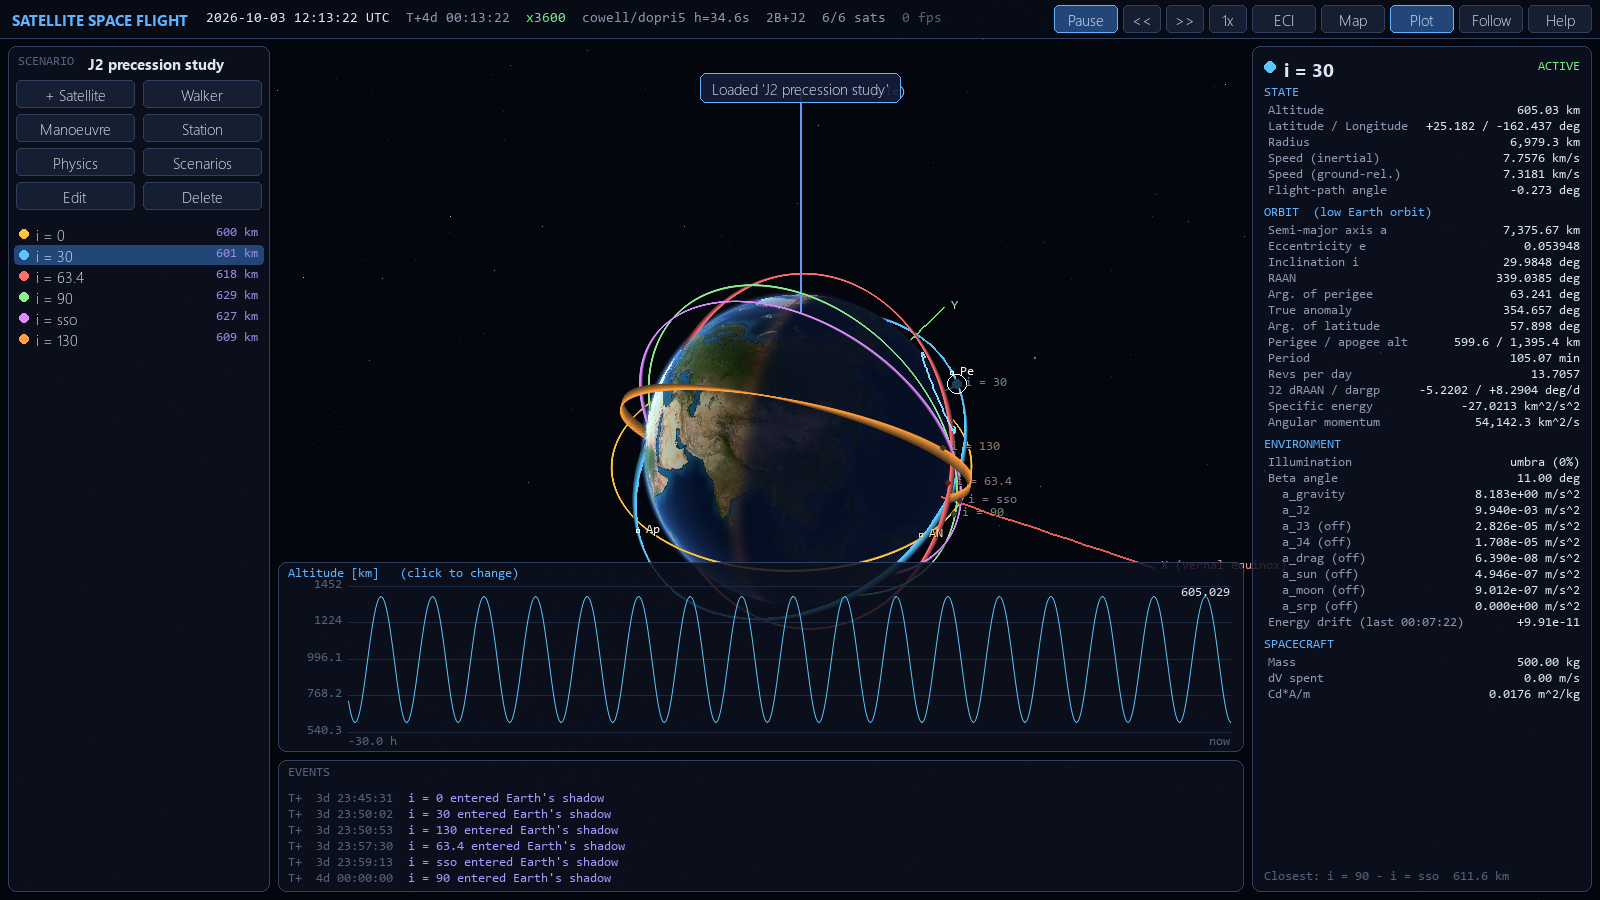
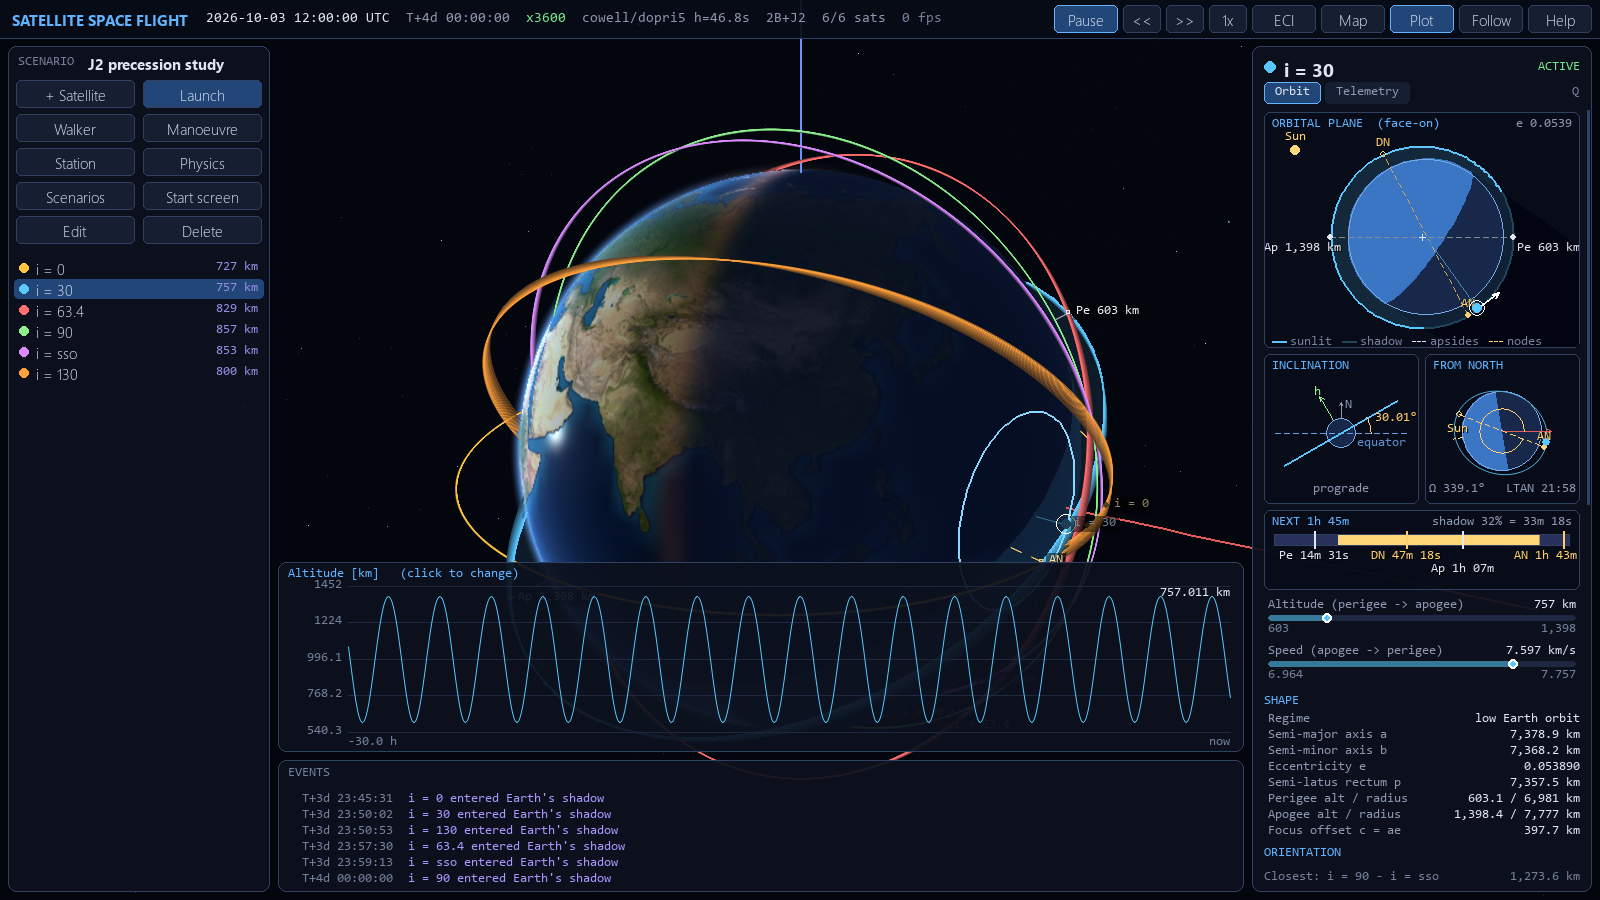
Regenerate the README pictures with a reproducible generator
tools/make_screenshots.py sets up each docs/images scene in-process and
draws it with the clock stopped, so the pictures can be remade after
any visible UI change. All ten pictures now show the current interface
(Launch button, Orbit tab, readability changes).

diff --git a/tools/make_screenshots.py b/tools/make_screenshots.py
@@ -1,0 +1,144 @@
+"""Regenerate the README pictures in ``docs/images/``.
+
+    python tools/make_screenshots.py              # every picture
+    python tools/make_screenshots.py hohmann      # just these
+
+Each function below sets up one scene (``SCENES`` maps picture names to
+them). The simulation is advanced first and then drawn with the clock
+stopped, so a scene looks the same every time it is made.
+"""
+
+from __future__ import annotations
+
+import os
+import sys
+from pathlib import Path
+
+os.environ["SDL_VIDEODRIVER"] = "dummy"          # before pygame is imported
+os.environ["SDL_AUDIODRIVER"] = "dummy"
+os.environ["PYGAME_HIDE_SUPPORT_PROMPT"] = "1"
+
+ROOT = Path(__file__).resolve().parents[1]
+sys.path.insert(0, str(ROOT))
+
+import pygame  # noqa: E402
+
+from satflight.ui.app import App  # noqa: E402
+
+OUT = ROOT / "docs" / "images"
+SIZE = (1600, 900)
+
+
+def _app(scenario: str, advance: float = 0.0, select: str | None = None, size=SIZE,
+         welcome: bool = False) -> App:
+    """An App on ``scenarios/<scenario>.json``, ``advance`` seconds in."""
+    app = App(ROOT / "scenarios" / f"{scenario}.json", size=size, welcome=welcome)
+    if advance:
+        app.sim.advance(advance)
+    if select:
+        app.select(app.sim.index_of(select))
+    return app
+
+
+def overview():
+    """Every classic orbit around the Earth."""
+    return _app("default", 45 * 60)
+
+
+def hohmann():
+    """Half-way up a Hohmann transfer to GEO."""
+    app = _app("hohmann_to_geo", 3 * 3600, "Transfer")
+    app.camera.distance = 110000.0      # the whole transfer ellipse
+    return app
+
+
+def starlink():
+    """1,584 satellites in one shell."""
+    app = _app("starlink_shell", 10 * 60)
+    app.opts.geometry = "off"           # the shell itself, not one member's orbit
+    return app
+
+
+def molniya_ecef_map():
+    """Molniya and Tundra ground tracks in the Earth-fixed frame."""
+    app = _app("molniya_tundra", 20 * 3600, "Molniya-1")
+    app.opts.frame = "ECEF"
+    app.opts.map = True
+    return app
+
+
+def j2_plot():
+    """Four days of J2: the altitude plot of an eccentric orbit."""
+    app = _app("j2_precession", 4 * 86400, "i = 30")
+    app.opts.plot = True
+    app.opts.geometry = "basic"
+    return app
+
+
+def follow_iss():
+    """The camera riding along with the ISS."""
+    app = _app("default", 20 * 60, "ISS")
+    app.toggle_follow()
+    return app
+
+
+def orbit_inspector():
+    """The orbit inspector on the Molniya orbit."""
+    return _app("default", 2.5 * 3600, "Molniya")
+
+
+def launch_dialog():
+    """The launch dialog, planning a launch from the Australian outback."""
+    app = _app("default")
+    app.open("launch")
+    dlg = app.dialogs[-1]
+    for key, value in (("name", "Outback-1"), ("payload_mass", 8000),
+                       ("site", "Custom location"), ("lat", -25.2), ("lon", 133.703),
+                       ("hp", 500), ("ha", 500), ("inc", 40)):
+        dlg.set(key, value)
+    dlg.preview.refresh(dlg)
+    dlg.layout()
+    return app
+
+
+def launch_ascent():
+    """Following a Falcon 9 through its second-stage burn."""
+    app = _app("launch_day", 350, "Starlink batch")
+    app.toggle_follow()
+    app.camera.distance = 9000.0        # back far enough to see the coast and the other pads
+    return app
+
+
+def start_screen():
+    """The start screen over the default scenario."""
+    return _app("default", 49, size=(1400, 860), welcome=True)
+
+
+SCENES = {f.__name__: f for f in (overview, hohmann, starlink, molniya_ecef_map, j2_plot,
+                                  follow_iss, orbit_inspector, launch_dialog, launch_ascent,
+                                  start_screen)}
+
+
+def render(name: str, frames: int = 10):
+    """Build scene ``name``, draw it with the clock stopped and save the picture."""
+    app = SCENES[name]()
+    app.toasts.clear()                  # no "Loaded ..." banner over the scene
+    for _ in range(frames):             # a fresh App's first frames draw a coarser Earth
+        app.update(0.0)
+        app.draw()
+    path = OUT / f"{name}.png"
+    pygame.image.save(app.screen, str(path))
+    pygame.quit()
+    return path
+
+
+def main(argv=None):
+    """Render the named scenes (all of them by default)."""
+    names = (argv if argv is not None else sys.argv[1:]) or list(SCENES)
+    OUT.mkdir(parents=True, exist_ok=True)
+    for name in names:
+        print(f"wrote {render(name).relative_to(ROOT)}")
+
+
+if __name__ == "__main__":
+    main()

diff --git a/README.md b/README.md
@@ -287,7 +287,7 @@ satflight/            physics engine (numpy only)
     widgets.py        buttons, text fields, choices and the form dialog
     theme.py          colours, fonts and drawing helpers
 scenarios/            example scenarios
-tools/                scenario generator, asset downloader
+tools/                scenario and README-picture generators, asset downloader
 tests/                pytest suite
 start.py              launcher: sets up numpy and pygame-ce if needed, then starts
 Start Satellite Space Flight.bat / .command    double-click launchers (Windows / macOS)
@@ -303,7 +303,8 @@ python -m ruff check .       # lint: errors, bugs, import order, 100-column line
 
 The code is formatted by hand in a compact style, so `ruff format` is not
 used. Scenario files are generated: change `tools/make_scenarios.py` and rerun
-it rather than editing the JSON.
+it rather than editing the JSON. The pictures in `docs/images/` are too: after a
+visible UI change, run `python tools/make_screenshots.py`.
 
 ## License
 
